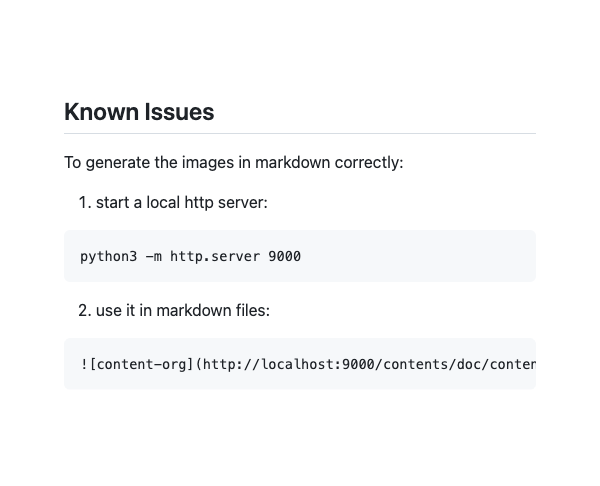
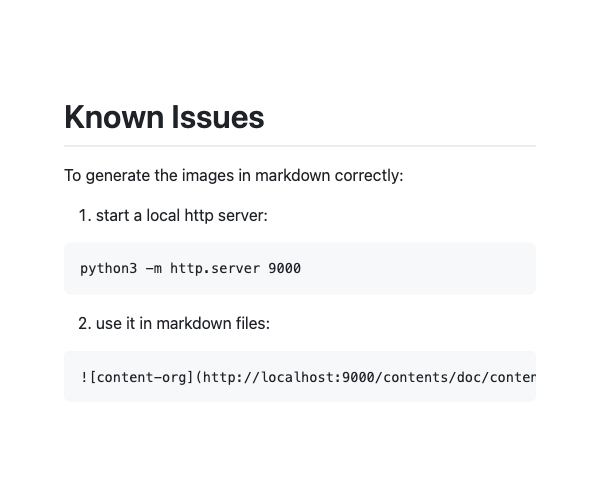
fix state management issues.

diff --git a/api/index.tsx b/api/index.tsx
@@ -1,7 +1,7 @@
 import { Button, FrameContext, Frog, TextInput } from "frog";
 import { devtools } from "frog/dev";
 import { serveStatic } from "frog/serve-static";
-import { neynar } from "frog/hubs";
+import { neynar, pinata } from "frog/hubs";
 import { handle } from "frog/vercel";
 import contents from "../public/contents.json";
 
@@ -27,6 +27,7 @@ export const app = isLocal
       assetsPath: "/",
       basePath: "/api",
       hub: neynar({ apiKey: import.meta.env?.VITE_NEYNAR_KEY }),
+      // hub: pinata(),
       initialState: {
         page: 0,
       },
@@ -49,6 +50,7 @@ app.frame("/submit", async (c) => {
   if (inputText) {
     deriveState((previousState) => {
       previousState.currentSlide = inputText;
+      previousState.page = 0;
     });
   } else {
     slide = deriveState().currentSlide;
@@ -59,6 +61,11 @@ app.frame("/submit", async (c) => {
 
 app.frame("/:slide", async (c) => {
   const slide = c.req.param("slide");
+  if (c.previousState.currentSlide !== slide) {
+    c.previousState.currentSlide = slide;
+    c.previousState.page = 0;
+  }
+
   return await browseHandler(slide, c);
 });
 

diff --git a/contents/doc/03-known-issues.md b/contents/doc/03-known-issues.md
@@ -1,4 +1,4 @@
-## Known Issues
+# Known Issues
 
 To generate the images in markdown correctly:
 
